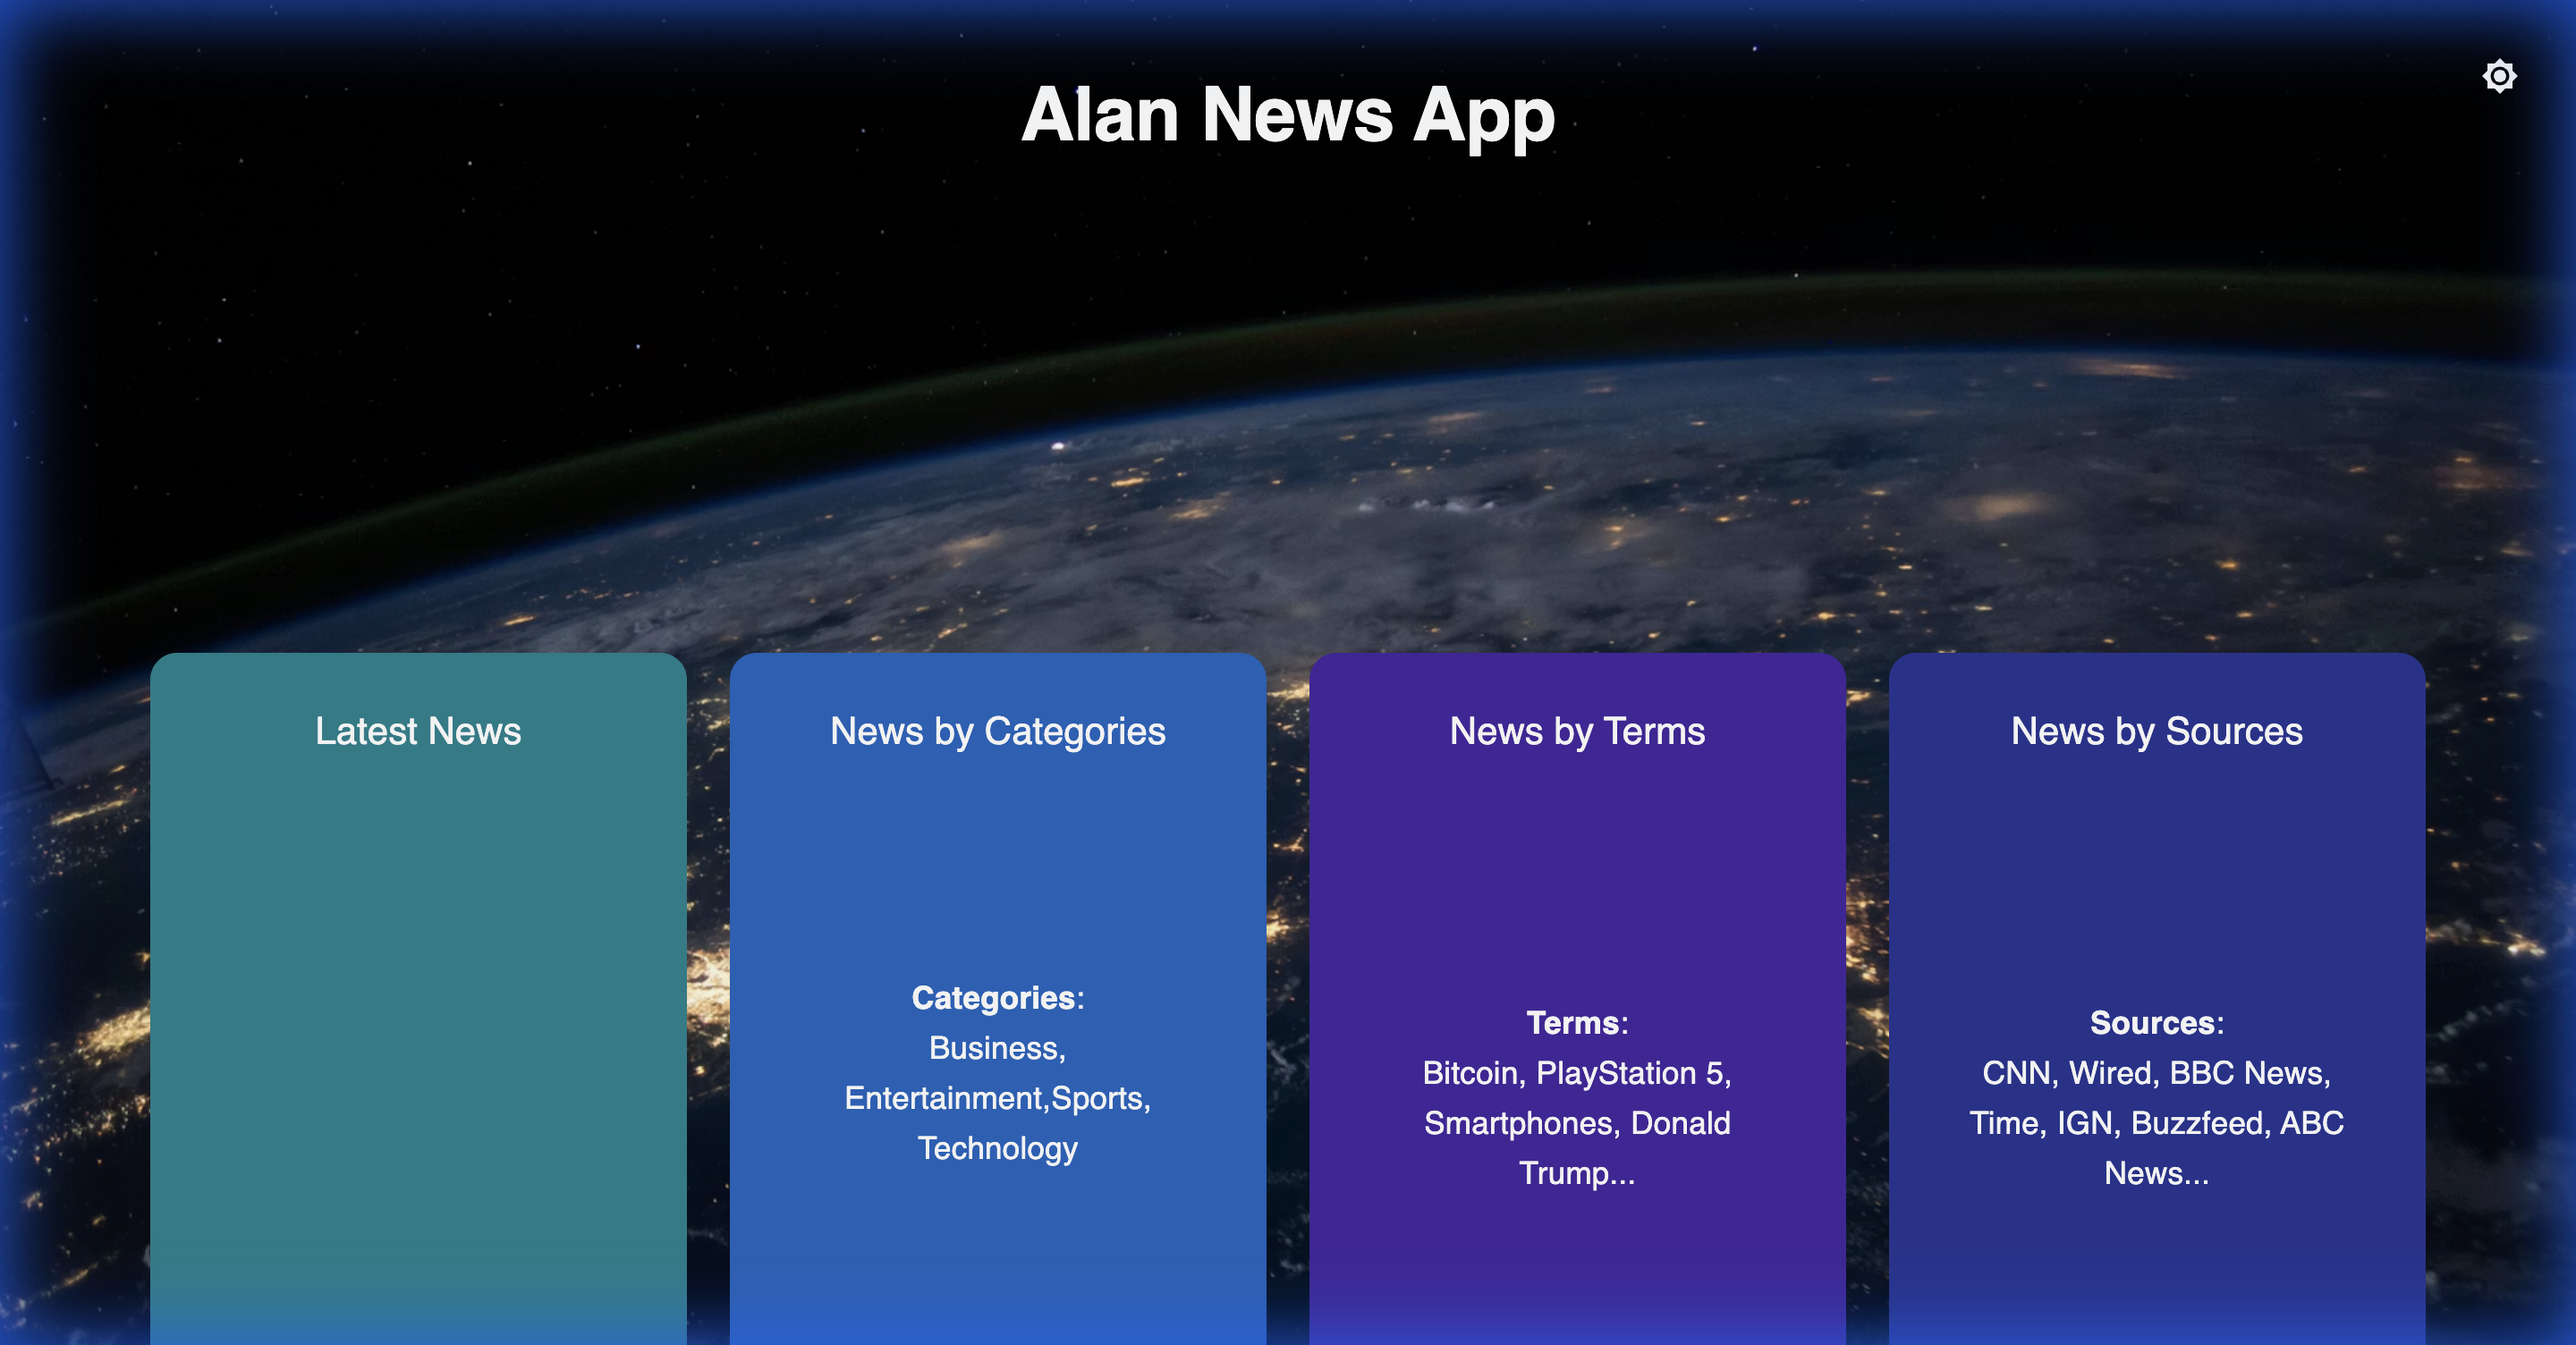
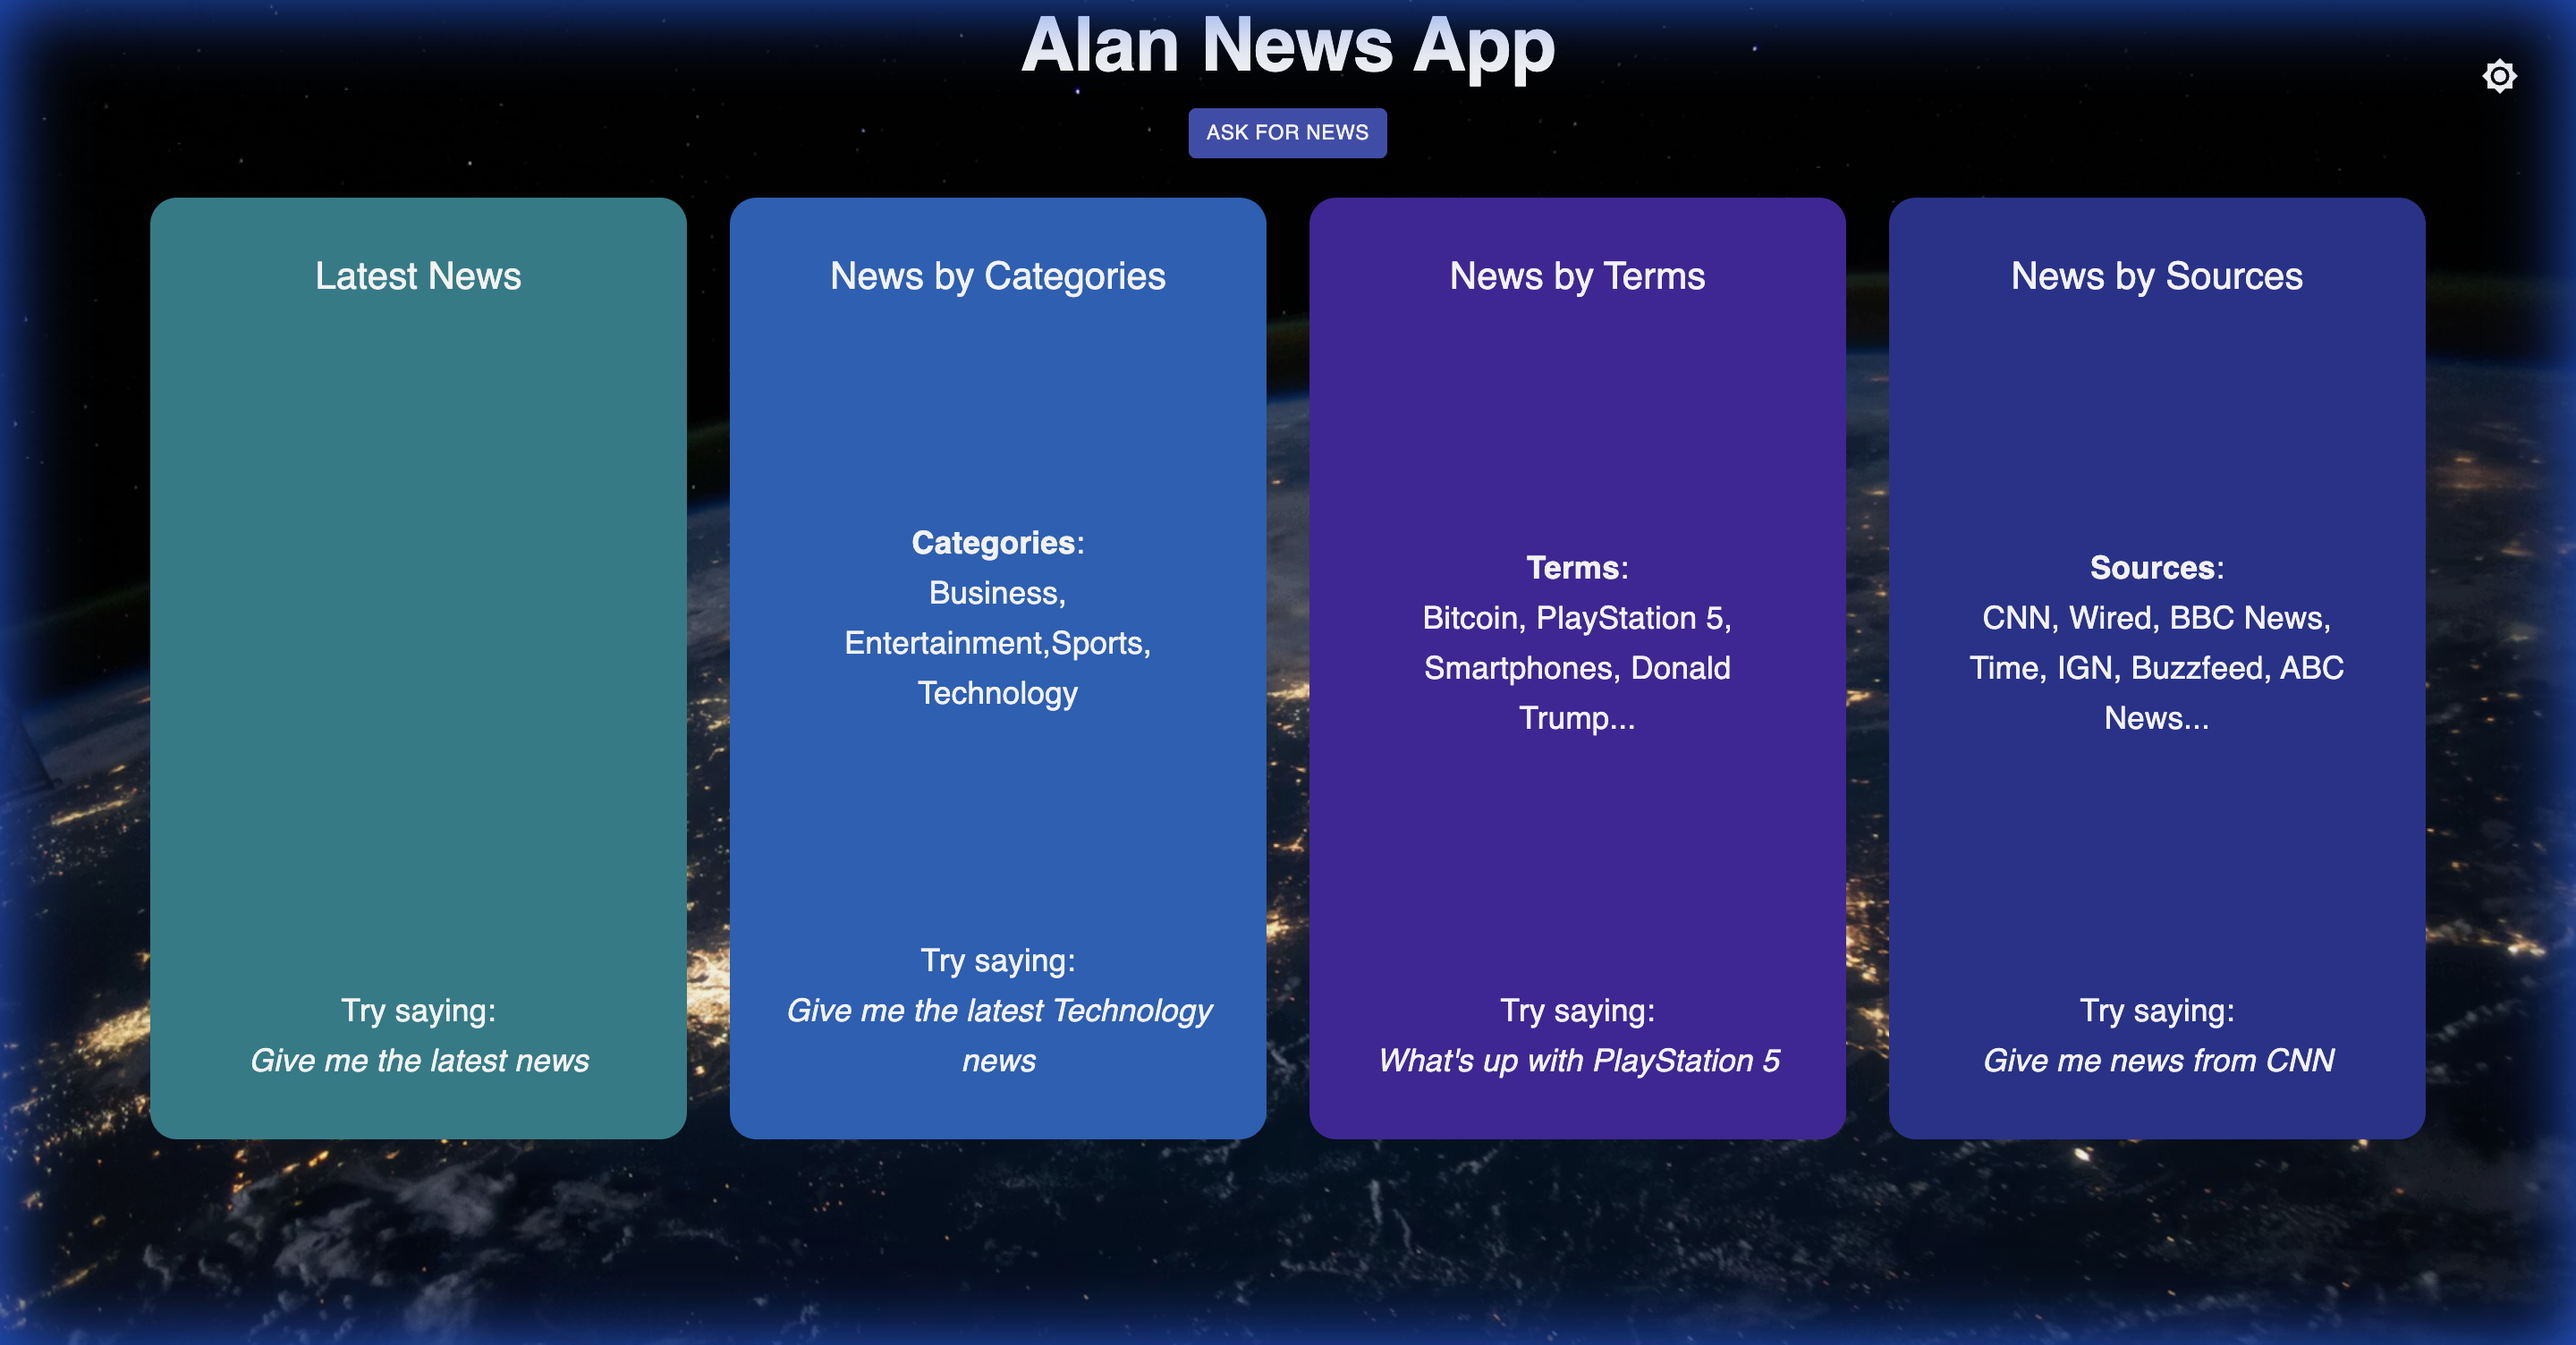
Final UI polish: Animations, Spacing, and Ask for News button

diff --git a/src/App.js b/src/App.js
@@ -1,18 +1,18 @@
 // Created by Francis Cruz - AJF013
 // AJF logo
 
-import React, { useState, useEffect } from 'react';
-import { Typography, IconButton } from '@material-ui/core';
+import React, { useState, useEffect, useRef } from 'react';
+import { Typography, IconButton, Button } from '@material-ui/core';
 import { Brightness4, Brightness7 } from '@material-ui/icons';
 import wordsToNumbers from 'words-to-numbers';
 
+// ... (imports remain)
 import alanBtn from '@alan-ai/alan-sdk-web';
 import AOS from 'aos';
 import 'aos/dist/aos.css';
 
 import NewsCards from '../src/components/NewsCards/NewsCards';
 import Footer from './Footer/Footer';
-
 import useStyles from './styles';
 
 const App = () => {
@@ -20,6 +20,7 @@ const App = () => {
   const [newsArticles, setNewsArticles] = useState([]);
   const [isOpen, setIsOpen] = useState(false);
   const [darkMode, setDarkMode] = useState(false);
+  const alanBtnInstance = useRef(null);
 
   const classes = useStyles();
 
@@ -31,33 +32,43 @@ const App = () => {
   }, []);
 
   useEffect(() => {
-    alanBtn({
-      key: process.env.REACT_APP_ALAN_KEY,
-      onCommand: ({ command, articles, number }) => {
-        if (command === 'newHeadlines') {
-          setNewsArticles(articles);
-          setActiveArticle(-1);
-        } else if (command === 'instructions') {
-          setIsOpen(true);
-        } else if (command === 'highlight') {
-          setActiveArticle((prevActiveArticle) => prevActiveArticle + 1);
-        } else if (command === 'open') {
-          const parsedNumber = number.length > 2 ? wordsToNumbers((number), { fuzzy: true }) : number;
-          const article = articles[parsedNumber - 1];
+    if (!alanBtnInstance.current) {
+      alanBtnInstance.current = alanBtn({
+        key: process.env.REACT_APP_ALAN_KEY,
+        onCommand: ({ command, articles, number }) => {
+          if (command === 'newHeadlines') {
+            setNewsArticles(articles);
+            setActiveArticle(-1);
+          } else if (command === 'instructions') {
+            setIsOpen(true);
+          } else if (command === 'highlight') {
+            setActiveArticle((prevActiveArticle) => prevActiveArticle + 1);
+          } else if (command === 'open') {
+            const parsedNumber = number.length > 2 ? wordsToNumbers((number), { fuzzy: true }) : number;
+            const article = articles[parsedNumber - 1];
 
-          if (parsedNumber > articles.length) {
-            alanBtn().playText('Please try that again...');
-          } else if (article) {
-            window.open(article.url, '_blank');
-            alanBtn().playText('Opening...');
-          } else {
-            alanBtn().playText('Please try that again...');
+            if (parsedNumber > articles.length) {
+              alanBtnInstance.current.playText('Please try that again...');
+            } else if (article) {
+              window.open(article.url, '_blank');
+              alanBtnInstance.current.playText('Opening...');
+            } else {
+              alanBtnInstance.current.playText('Please try that again...');
+            }
           }
-        }
-      },
-
-    });
+        },
+        rootEl: document.getElementById('alan-btn'),
+      });
+    }
   }, []);
+
+  const openMic = () => {
+    if (alanBtnInstance.current) {
+      alanBtnInstance.current.activate();
+    } else {
+      console.error("Alan Instance not ready!");
+    }
+  };
 
   return (
     <div className={`${classes.themeContainer} ${darkMode ? classes.darkMode : classes.lightMode}`}>
@@ -69,15 +80,17 @@ const App = () => {
       <div className={classes.logoContainer}>
         {newsArticles.length ? (
           <div className={classes.infoContainer}>
-            <div className={classes.card}><Typography variant="h5" component="h2">Try saying: <br /><br />Open article number [4]</Typography></div>
-            <div className={classes.card}><Typography variant="h5" component="h2">Try saying: <br /><br />Go back</Typography></div>
+            <div className={classes.card} data-aos="fade-down" data-aos-delay="0"><Typography variant="h5" component="h2">Try saying: <br /><br />Open article number [4]</Typography></div>
+            <div className={classes.card} data-aos="fade-down" data-aos-delay="150"><Typography variant="h5" component="h2">Try saying: <br /><br />Go back</Typography></div>
           </div>
         ) : null}
-        <Typography variant="h2" component="h1" className={classes.alanLogo} data-aos="zoom-in" style={{ fontSize: '3rem', fontWeight: 'bold', color: darkMode ? '#ffffff' : '#444444', textAlign: 'center', margin: '1% 0' }}>
+        <Typography variant="h2" component="h1" className={classes.alanLogo} data-aos="zoom-in" style={{ fontSize: '3rem', fontWeight: 'bold', color: darkMode ? '#ffffff' : '#444444', textAlign: 'center', margin: 0 }}>
           Alan News App
         </Typography>
+        <Button onClick={openMic} variant="contained" color="primary" size="small" style={{ margin: '10px 0' }}>Ask for News</Button>
       </div>
       <NewsCards articles={newsArticles} activeArticle={activeArticle} />
+      <div id="alan-btn" />
       <Footer />
     </div>
   );

diff --git a/src/styles.js b/src/styles.js
@@ -54,24 +54,35 @@ export default makeStyles((theme) => ({
     },
   },
   logoContainer: {
-    padding: '0 5%',
+    padding: 0,
     display: 'flex',
     justifyContent: 'space-around',
     alignItems: 'center',
     width: '100%',
+    flexDirection: 'column', // Force column to stack logo and button
     [theme.breakpoints.down('sm')]: {
       flexDirection: 'column-reverse',
       textAlign: 'center',
     },
   },
   alanLogo: {
-    height: '27vmin',
-    borderRadius: '15%',
+    height: 'auto', // Auto height for text
     padding: '0 5%',
-    margin: '3% 0',
+    margin: 0,
     [theme.breakpoints.down('sm')]: {
-      height: '35vmin',
+      padding: '0 2%',
     },
+  },
+  // Ensure the button container is fixed
+  alanContainer: { // We will attach this class to the div in App.js if we can, or rely on ID styling. 
+    // Actually, App.js used <div id="alan-btn" />. 
+    // Material UI useStyles generates class names. It's better to target ID in CSS or use inline style in App.js. 
+    // But let's add a class here and use it in App.js if we modify App.js again. 
+    // Wait, I can't modify App.js in this step. I will add the class here and assume I might need it, 
+    // OR just use index.css for #alan-btn. 
+    // Recommendation: Use index.css for #alan-btn or just rely on the SDK's internal styling? 
+    // The SDK appends specific classes. 
+    // Let's stick to reducing spacing here.
   },
   themeContainer: {
     minHeight: '100vh',

diff --git a/src/components/NewsCards/NewsCards.js b/src/components/NewsCards/NewsCards.js
@@ -18,8 +18,8 @@ const NewsCards = ({ articles, activeArticle }) => {
     return (
       <Grow in>
         <Grid className={classes.container} container alignItems="stretch" spacing={3}>
-          {infoCards.map((infoCard) => (
-            <Grid item xs={12} sm={6} md={4} lg={3} className={classes.infoCard} data-aos="fade-up">
+          {infoCards.map((infoCard, i) => (
+            <Grid key={i} item xs={12} sm={6} md={4} lg={3} className={classes.infoCard} data-aos="zoom-in" data-aos-delay={100 * i}>
               <div className={classes.card} style={{ backgroundColor: infoCard.color }}>
                 <Typography variant="h5" component="h5">{infoCard.title}</Typography>
                 {infoCard.info ? <Typography variant="h6" component="h6"><strong>{infoCard.title.split(' ')[2]}</strong>: <br />{infoCard.info}</Typography> : null}

diff --git a/src/components/NewsCards/NewsCard/styles.js b/src/components/NewsCards/NewsCard/styles.js
@@ -15,6 +15,10 @@ export default makeStyles({
     flexDirection: 'column',
     justifyContent: 'space-between',
     borderBottom: '10px solid white',
+    transition: 'transform 0.2s',
+    '&:hover': {
+      transform: 'scale(1.05)',
+    },
   },
   activeCard: {
     borderBottom: '10px solid #22289a',

diff --git a/src/components/NewsCards/styles.js b/src/components/NewsCards/styles.js
@@ -11,6 +11,10 @@ export default makeStyles({
     padding: '10%',
     borderRadius: 15,
     color: 'white',
+    transition: 'transform 0.2s',
+    '&:hover': {
+      transform: 'scale(1.05)',
+    },
   },
   infoCard: {
     display: 'flex', flexDirection: 'column', textAlign: 'center',

diff --git a/README.md b/README.md
@@ -8,7 +8,16 @@ A Conversational Voice Controlled React News Application using **Alan AI**. This
 ### Dark Mode
 ![Dark Mode](screenshots/dark_mode.png)
 
+## 🌐 Live Demo
+
+🔗 **Live Site:**  
+https://alanainews-react.netlify.app/
+
 ## 🌟 Features
+
+### Ask for News Button
+
+An **"Ask for News"** button is provided to help you get started quickly. Clicking this button immediately opens the microphone, so you can simply say commands like *"Give me the latest news"* or *"Show me business news"* without needing to say the hotword first.
 
 ## 🛠 Technology Stack
 
@@ -30,7 +39,7 @@ A Conversational Voice Controlled React News Application using **Alan AI**. This
 
 1.  **Clone the repository**
     ```bash
-    git clone https://github.com/your-username/Alan-AI-Application.git
+    git clone https://github.com/ajf013/Alan-AI-Application.git
     cd Alan-AI-Application
     ```
 
@@ -67,3 +76,10 @@ See `netlify_deployment.md` for specific Netlify instructions.
 ## 👤 Author
 
 **Francis Cruz**
+
+## You can reach out 😊😊
+Feel free to contact me about the problems. I will try to help as much as I can 😉
+
+[![Linkedin Badge](https://img.shields.io/badge/linkedin-%230077B5.svg?&style=for-the-badge&logo=linkedin&logoColor=white)](https://www.linkedin.com/in/ajf013-francis-cruz/)
+[![Mail Badge](https://img.shields.io/badge/email-c14438?style=for-the-badge&logo=Gmail&logoColor=white&link=mailto:furkanozbek1995@gmail.com)](mailto:cruzmma2021@gmail.com)
+[![Github Badge](https://img.shields.io/badge/github-333?style=for-the-badge&logo=github&logoColor=white)](https://github.com/ajf013)
